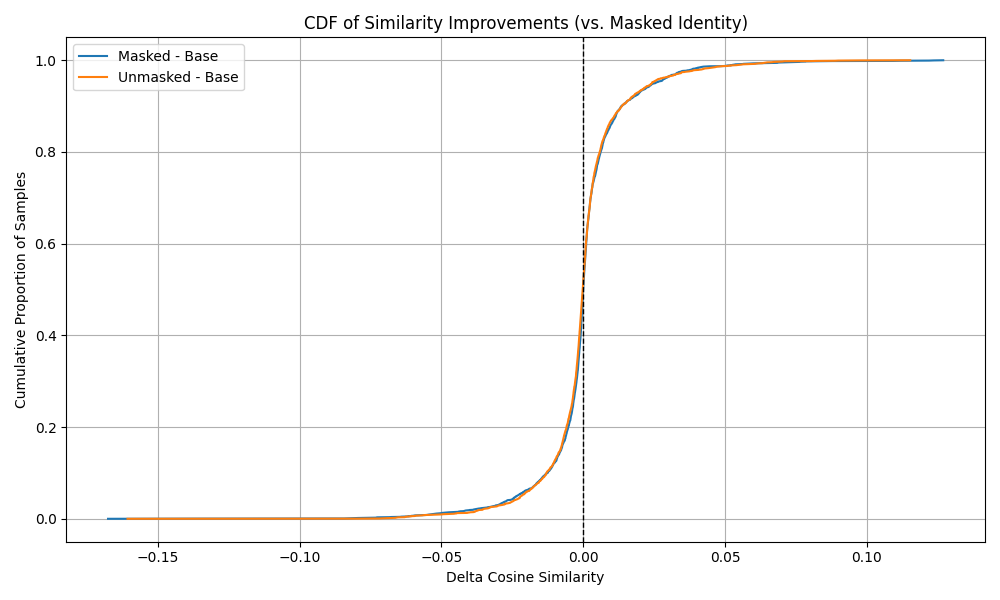
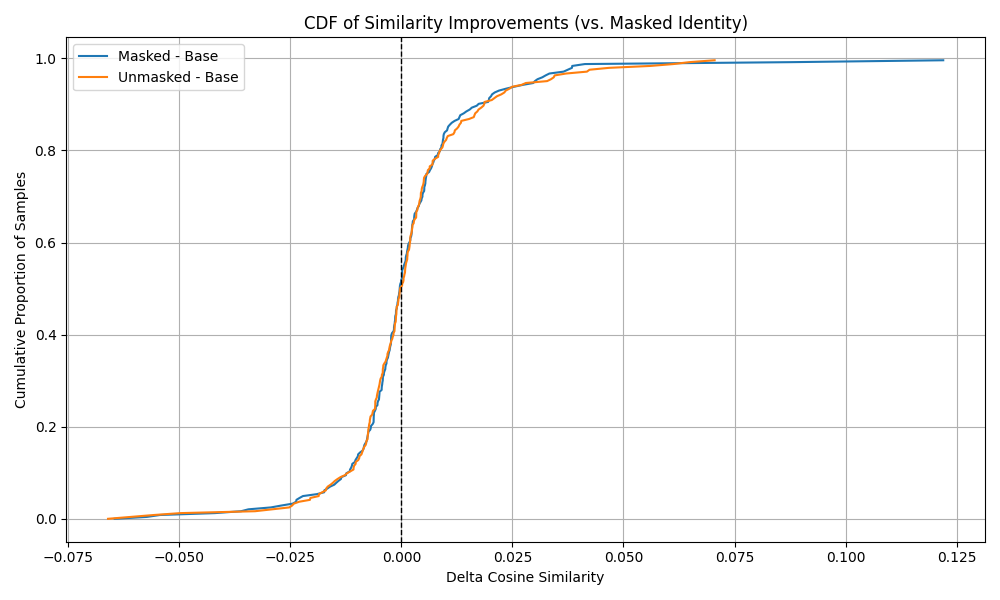
finished selection mask evaluation

diff --git a/ControlNet_plus_plus/train/evaluate_ID_selected_masks.py b/ControlNet_plus_plus/train/evaluate_ID_selected_masks.py
@@ -15,53 +15,68 @@ occluded_dir = "../../datasets/celebahq/conditions"
 base_dir = "comparison_outputs_random_seed/embeddings_base"
 masked_out_dir = "comparison_outputs_random_seed/embeddings_masked"
 unmasked_out_dir = "comparison_outputs_random_seed/embeddings_unmasked"
+mask_root = "categorized_masks_debug"
 
-get_ids = lambda d: {os.path.splitext(f)[0] for f in os.listdir(d) if f.endswith(".npy")}
-common_ids = get_ids(original_dir) & get_ids(occluded_dir) & get_ids(base_dir) & get_ids(masked_out_dir) & get_ids(unmasked_out_dir)
-print(f"Found {len(common_ids)} common samples across all sources.")
+categories = ["eyes", "eyes_mouth_nose", "eyes_nose", "mouth_nose", "nose", ""]  # "" is general
 
-results = {
-    "base_vs_original": [],
-    "base_vs_occluded": [],
-    "masked_vs_original": [],
-    "masked_vs_occluded": [],
-    "unmasked_vs_original": [],
-    "unmasked_vs_occluded": [],
-}
+all_results = {}
 
-for sid in tqdm(sorted(common_ids)):
-    try:
-        # original unoccluded image
-        orig = load_embedding(os.path.join(original_dir, f"{sid}.npy")).reshape(1, -1) 
+for category in categories:
+    if category:
+        mask_dir = os.path.join(mask_root, category)
+        mask_files = [f for f in os.listdir(mask_dir) if f.endswith(".png")]
+    else:
+        # General: collect all .pngs from all subdirectories
+        mask_files = []
+        for root, _, files in os.walk(mask_root):
+            for f in files:
+                if f.endswith(".png"):
+                    mask_files.append(f)
+    sample_ids = {
+        str(int(os.path.splitext(f)[0]))
+        for f in mask_files
+        if os.path.splitext(f)[0].isdigit()
+    }
 
-        # original occluded image (mask aplied on top of original image)
-        occl = load_embedding(os.path.join(occluded_dir, f"{sid}.npy")).reshape(1, -1)
+    valid_ids = sample_ids & \
+                {f.split(".")[0] for f in os.listdir(original_dir)} & \
+                {f.split(".")[0] for f in os.listdir(occluded_dir)} & \
+                {f.split(".")[0] for f in os.listdir(base_dir)} & \
+                {f.split(".")[0] for f in os.listdir(masked_out_dir)} & \
+                {f.split(".")[0] for f in os.listdir(unmasked_out_dir)}
 
-        # SD generated image
-        base = load_embedding(os.path.join(base_dir, f"{sid}.npy")).reshape(1, -1) 
+    results = {
+        "base_vs_original": [],
+        "base_vs_occluded": [],
+        "masked_vs_original": [],
+        "masked_vs_occluded": [],
+        "unmasked_vs_original": [],
+        "unmasked_vs_occluded": [],
+    }
 
-        # ControlNet trained on occluded images generated image
-        masked = load_embedding(os.path.join(masked_out_dir, f"{sid}.npy")).reshape(1, -1) 
+    for sid in tqdm(sorted(valid_ids), desc=f"Processing {category or 'general'}"):
+        try:
+            orig = load_embedding(os.path.join(original_dir, f"{sid}.npy")).reshape(1, -1)
+            occl = load_embedding(os.path.join(occluded_dir, f"{sid}.npy")).reshape(1, -1)
+            base = load_embedding(os.path.join(base_dir, f"{sid}.npy")).reshape(1, -1)
+            masked = load_embedding(os.path.join(masked_out_dir, f"{sid}.npy")).reshape(1, -1)
+            unmasked = load_embedding(os.path.join(unmasked_out_dir, f"{sid}.npy")).reshape(1, -1)
 
-        # ControlNet trained on unoccluded images generated image
-        unmasked = load_embedding(os.path.join(unmasked_out_dir, f"{sid}.npy")).reshape(1, -1)
+            results["base_vs_original"].append(cosine_similarity(base, orig)[0, 0])
+            results["base_vs_occluded"].append(cosine_similarity(base, occl)[0, 0])
+            results["masked_vs_original"].append(cosine_similarity(masked, orig)[0, 0])
+            results["masked_vs_occluded"].append(cosine_similarity(masked, occl)[0, 0])
+            results["unmasked_vs_original"].append(cosine_similarity(unmasked, orig)[0, 0])
+            results["unmasked_vs_occluded"].append(cosine_similarity(unmasked, occl)[0, 0])
+        except Exception as e:
+            print(f"Skipping {sid} in '{category or 'general'}' due to: {e}")
 
-
-        results["base_vs_original"].append(cosine_similarity(base, orig)[0, 0])
-        results["base_vs_occluded"].append(cosine_similarity(base, occl)[0, 0])
-
-        results["masked_vs_original"].append(cosine_similarity(masked, orig)[0, 0])
-        results["masked_vs_occluded"].append(cosine_similarity(masked, occl)[0, 0])
-
-        results["unmasked_vs_original"].append(cosine_similarity(unmasked, orig)[0, 0])
-        results["unmasked_vs_occluded"].append(cosine_similarity(unmasked, occl)[0, 0])
-
-    except Exception as e:
-        print(f"Skipping {sid} due to error: {e}")
+    all_results[category or "general"] = results
 
 for key in results:
     results[key] = np.array(results[key])
 
+# Now you're safe to proceed with the analysis
 base = results["base_vs_occluded"]
 masked = results["masked_vs_occluded"]
 unmasked = results["unmasked_vs_occluded"]
@@ -80,10 +95,9 @@ win_counts = {
     )
 }
 
-print("Per-sample winner counts (vs. MASKED input):")
+print(f"\nResults for category: {category or 'general'}")
 for k, v in win_counts.items():
     print(f"{k}: {v} samples")
-    
 
 delta_masked_vs_base = masked - base
 delta_unmasked_vs_base = unmasked - base
